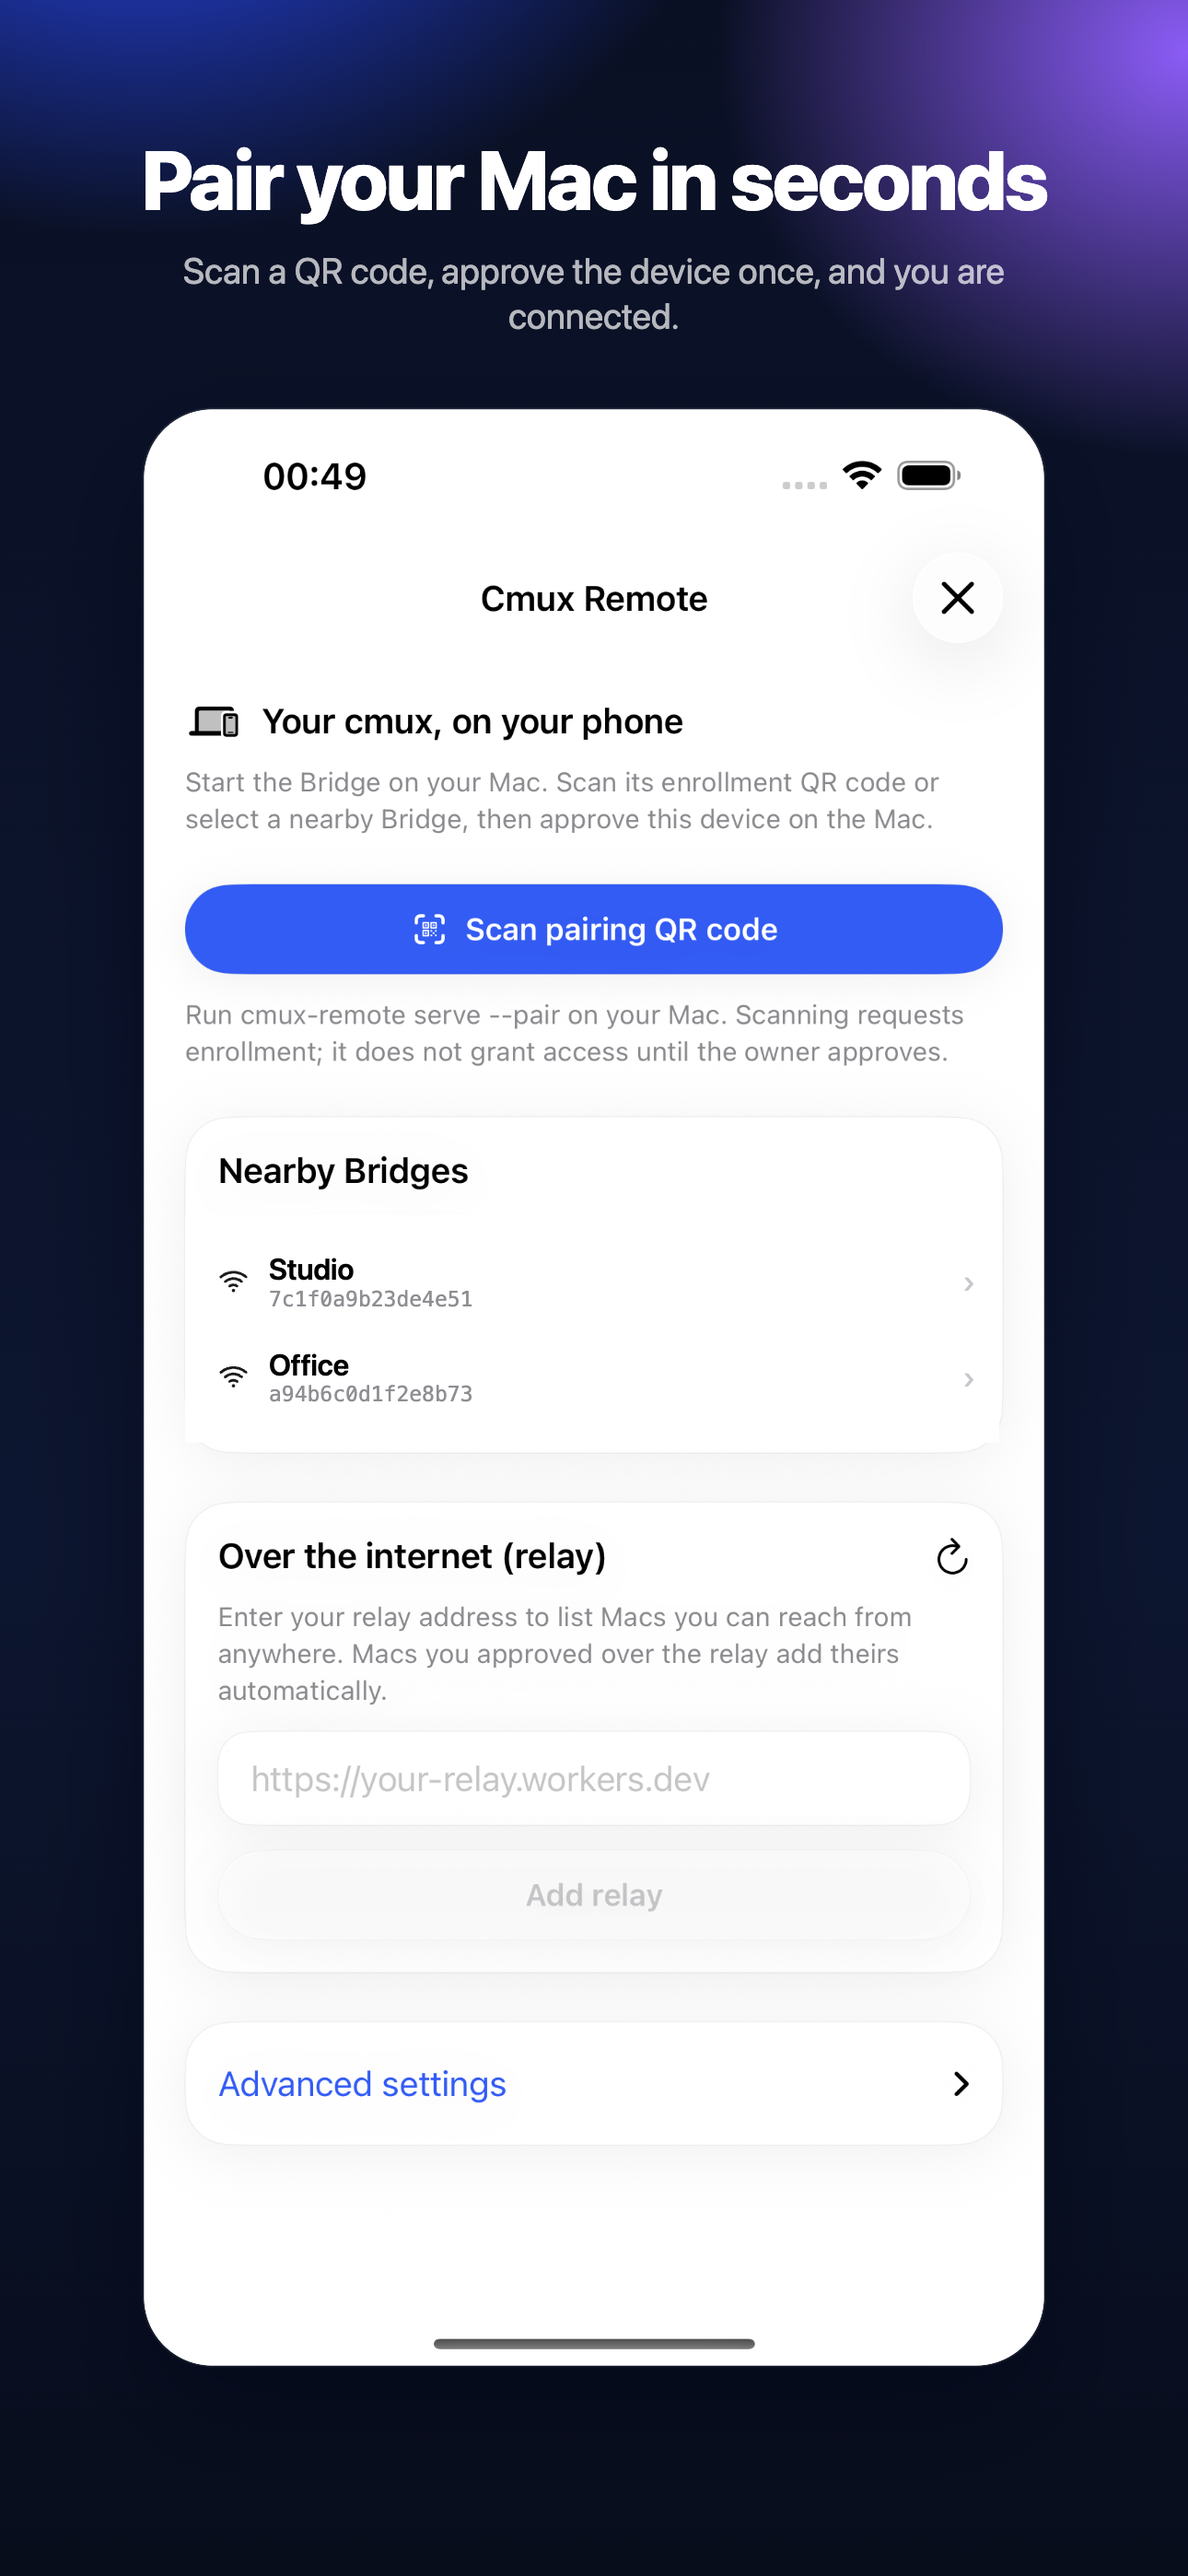
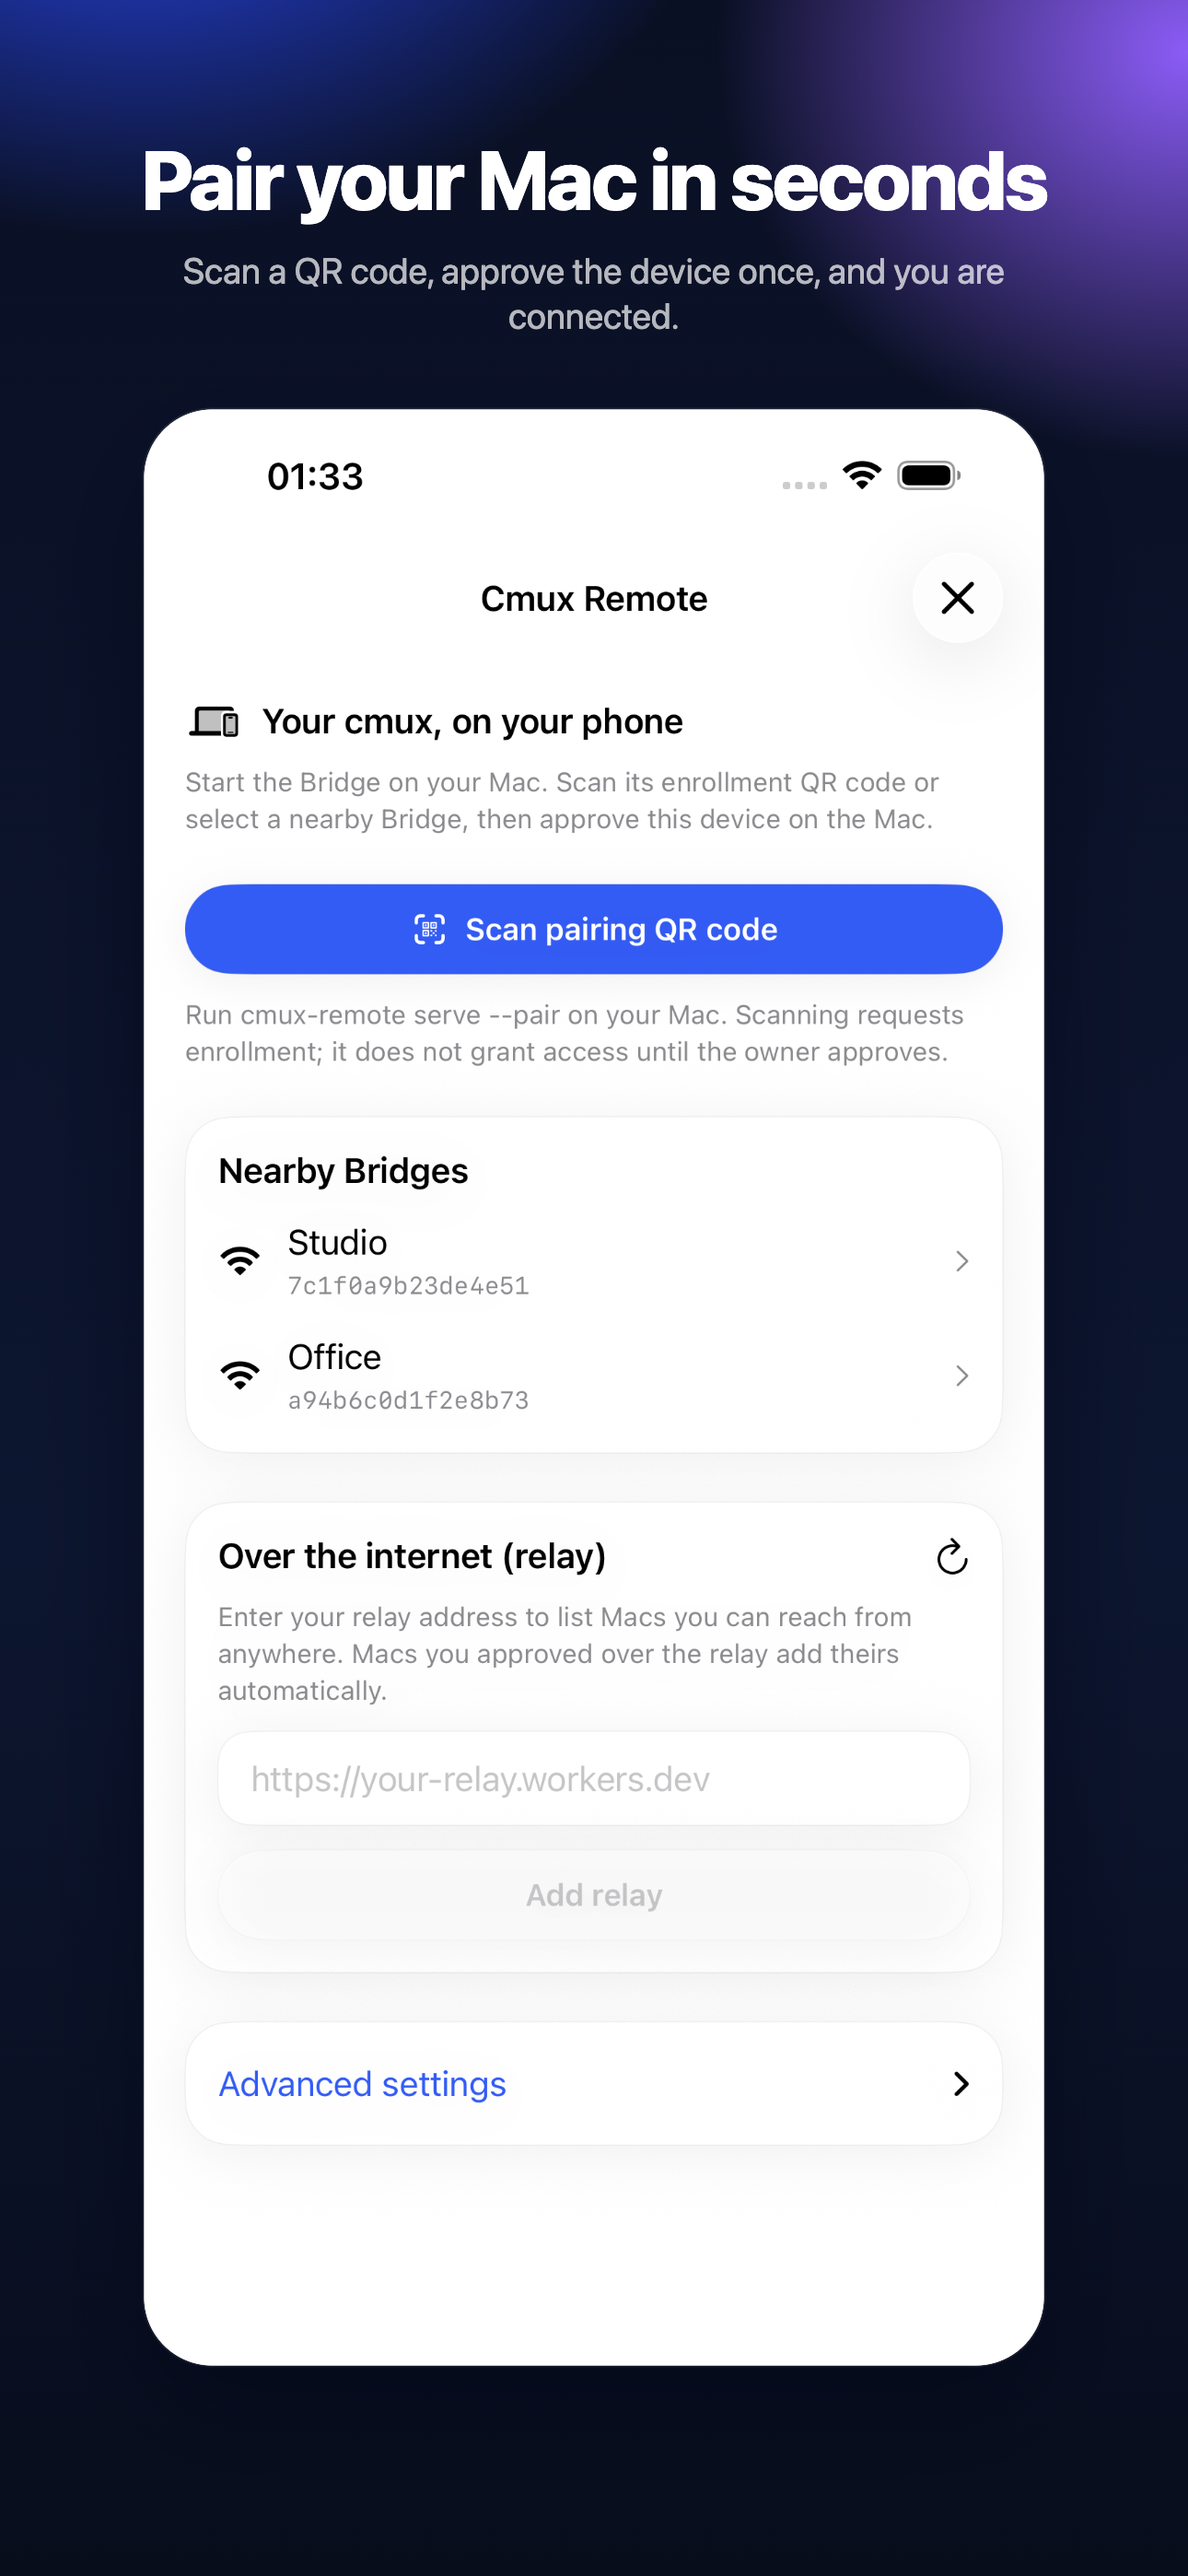
test(ios): let a UI run supply the nearby-bridge list
The Nearby Bridges section is real Bonjour discovery, so a listing screenshot
names whatever Macs are on the network. A `#if DEBUG` hook now reads
CMUX_REMOTE_TEST_NEARBY_PATH, the same way the pairing hook works, so the
screenshot run shows the fixture's own entries — rendered by the app, not drawn
over the image.

Changed region(s): [[0.186, 0.4667, 0.4031, 0.5601], [0.3721, 0.9024, 0.6202, 0.9335], [0.2171, 0.1556, 0.3101, 0.1867]]

diff --git a/ios/Sources/AppModel.swift b/ios/Sources/AppModel.swift
@@ -144,6 +144,19 @@ final class AppModel {
         catch { self.error = ErrorPresentation().message(error) }
     }
     func discover() async {
+        #if DEBUG
+        // Screenshot and UI runs need a deterministic list: the real one names whatever Macs are on the
+        // network, which must not end up in a store listing.
+        if let path = ProcessInfo.processInfo.environment["CMUX_REMOTE_TEST_NEARBY_PATH"],
+           let data = try? Data(contentsOf: URL(fileURLWithPath: path)),
+           let entries = try? JSONDecoder().decode([TestNearbyEntry].self, from: data) {
+            discovered = entries.map { entry in
+                let host = HostIdentity(id: entry.id, publicKey: entry.id, certificateSHA256: entry.id, name: entry.name)
+                return DiscoveredBridge(host: host, service: .hostPort(host: .ipv4(.loopback), port: 1))
+            }
+            return
+        }
+        #endif
         defer { discovery.stop() }
         for await values in discovery.start() {
             guard !Task.isCancelled else { break }; discovered = values
@@ -442,3 +455,11 @@ final class AppModel {
         if links.isEmpty { enrollmentGeneration = UUID(); stopEnrollmentMonitor() }
     }
 }
+
+#if DEBUG
+/// One entry of the test-only nearby list read from `CMUX_REMOTE_TEST_NEARBY_PATH`.
+struct TestNearbyEntry: Decodable {
+    let id: String
+    let name: String
+}
+#endif

diff --git a/ios/UITests/MobileStoreScreenshotsUITests.swift b/ios/UITests/MobileStoreScreenshotsUITests.swift
@@ -10,6 +10,10 @@ final class MobileStoreScreenshotsUITests: XCTestCase {
         let app = XCUIApplication(bundleIdentifier: "cmux-remote.mobile")
         app.launchEnvironment["CMUX_REMOTE_TEST_PAIRING_PATH"] = pairingPath
         app.launchArguments = ["-AppleLanguages", "(en)"]
+        // A listing must not name the Macs that happen to be on this network; the fixture supplies the list.
+        if let nearby = ProcessInfo.processInfo.environment["CMUX_REMOTE_TEST_NEARBY_PATH"], !nearby.isEmpty {
+            app.launchEnvironment["CMUX_REMOTE_TEST_NEARBY_PATH"] = nearby
+        }
         app.launch()
         XCTAssertTrue(app.buttons["sessions.sidebar"].waitForExistence(timeout: 15))
         capture(app, "01-sessions")
